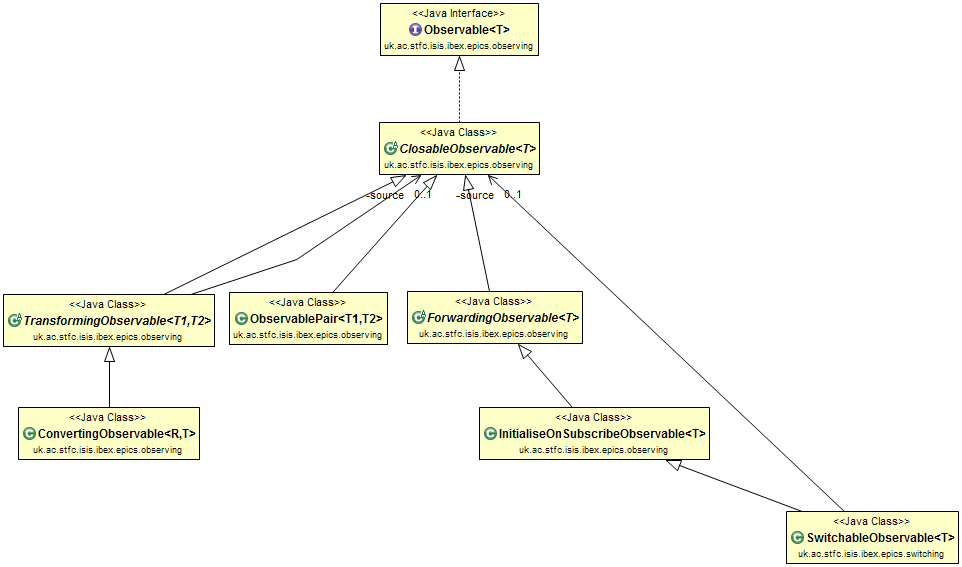
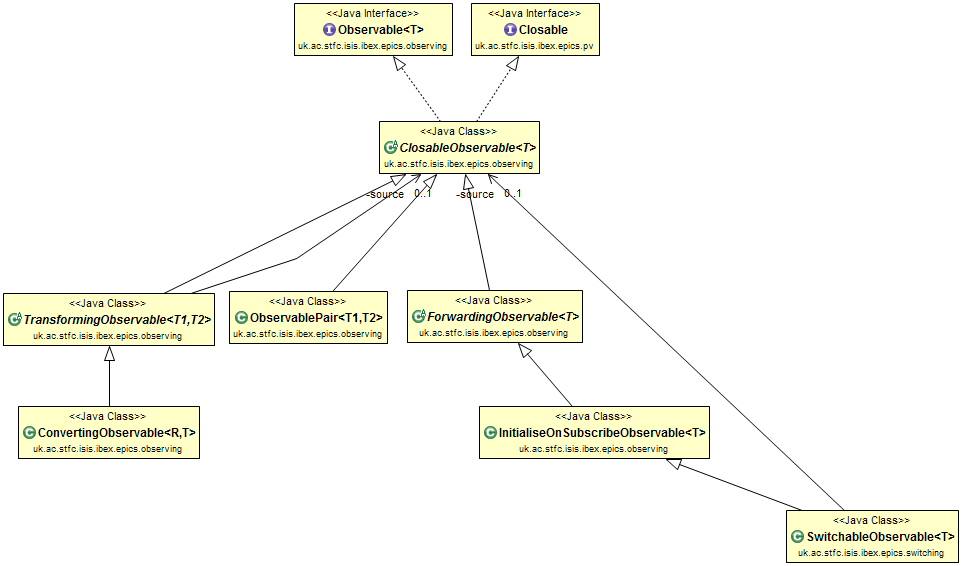
Added updated class diagram for combined observer and observables, added closable interface in to observable class diagram

diff --git a/refactoring_for_observables_and_writers.rst b/refactoring_for_observables_and_writers.rst
@@ -23,6 +23,13 @@ November 2015
 .. image:: images/refactoring_for_observables_and_writers/observables_and_observers_nov_2015.png
     :scale: 100 %
     :align: center
+    
+January 2016
+-------------
+
+.. image:: images/refactoring_for_observables_and_writers/observables_and_observers_jan_2016.png
+    :scale: 100 %
+    :align: center
 
 
 Observables
